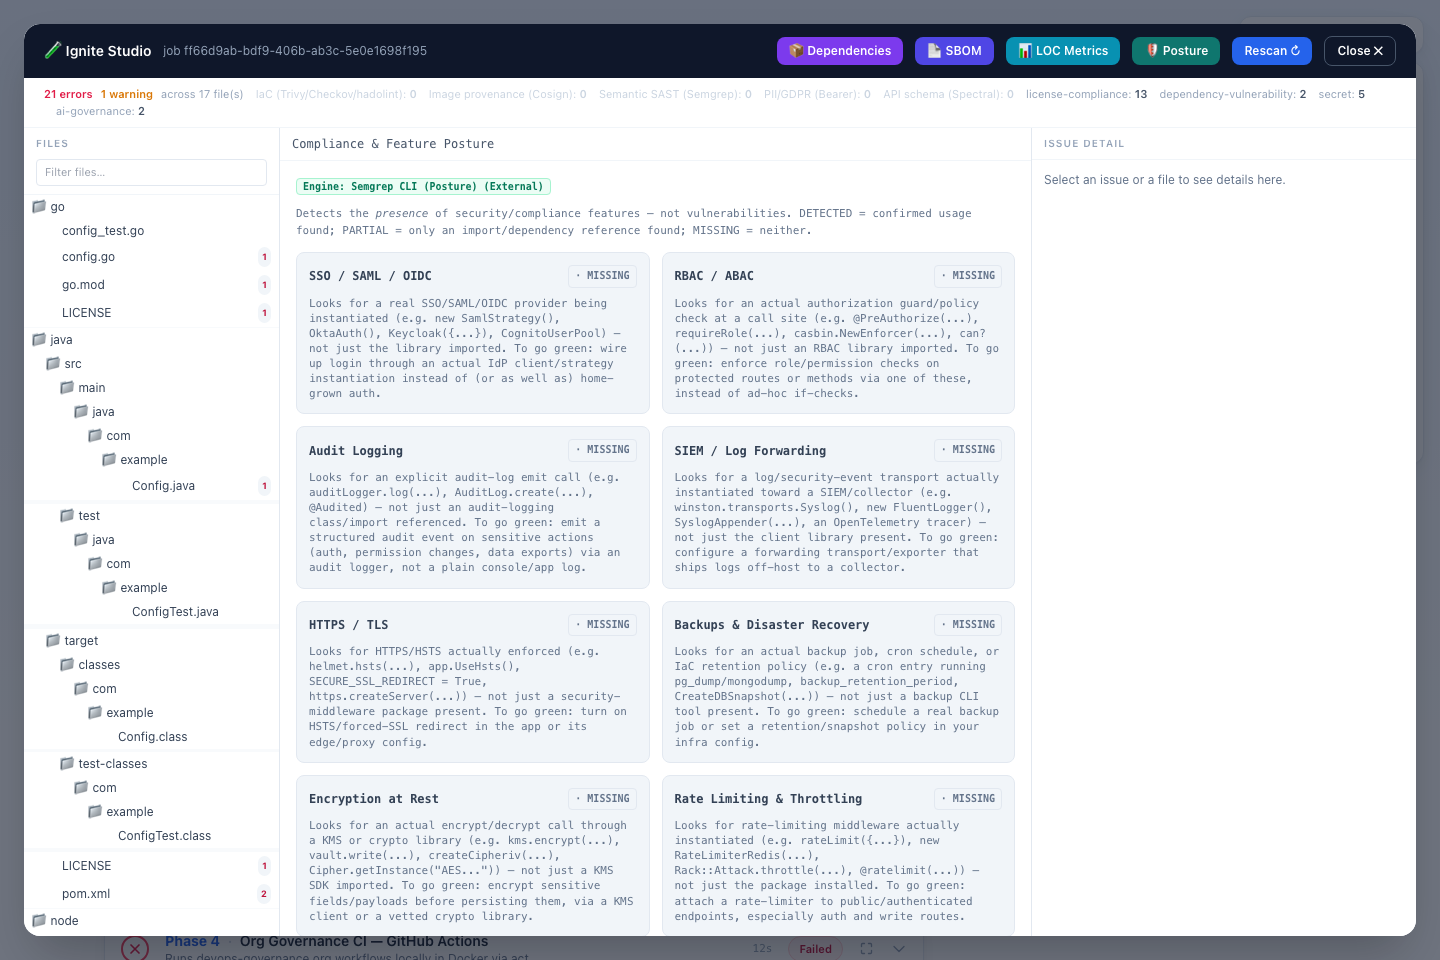
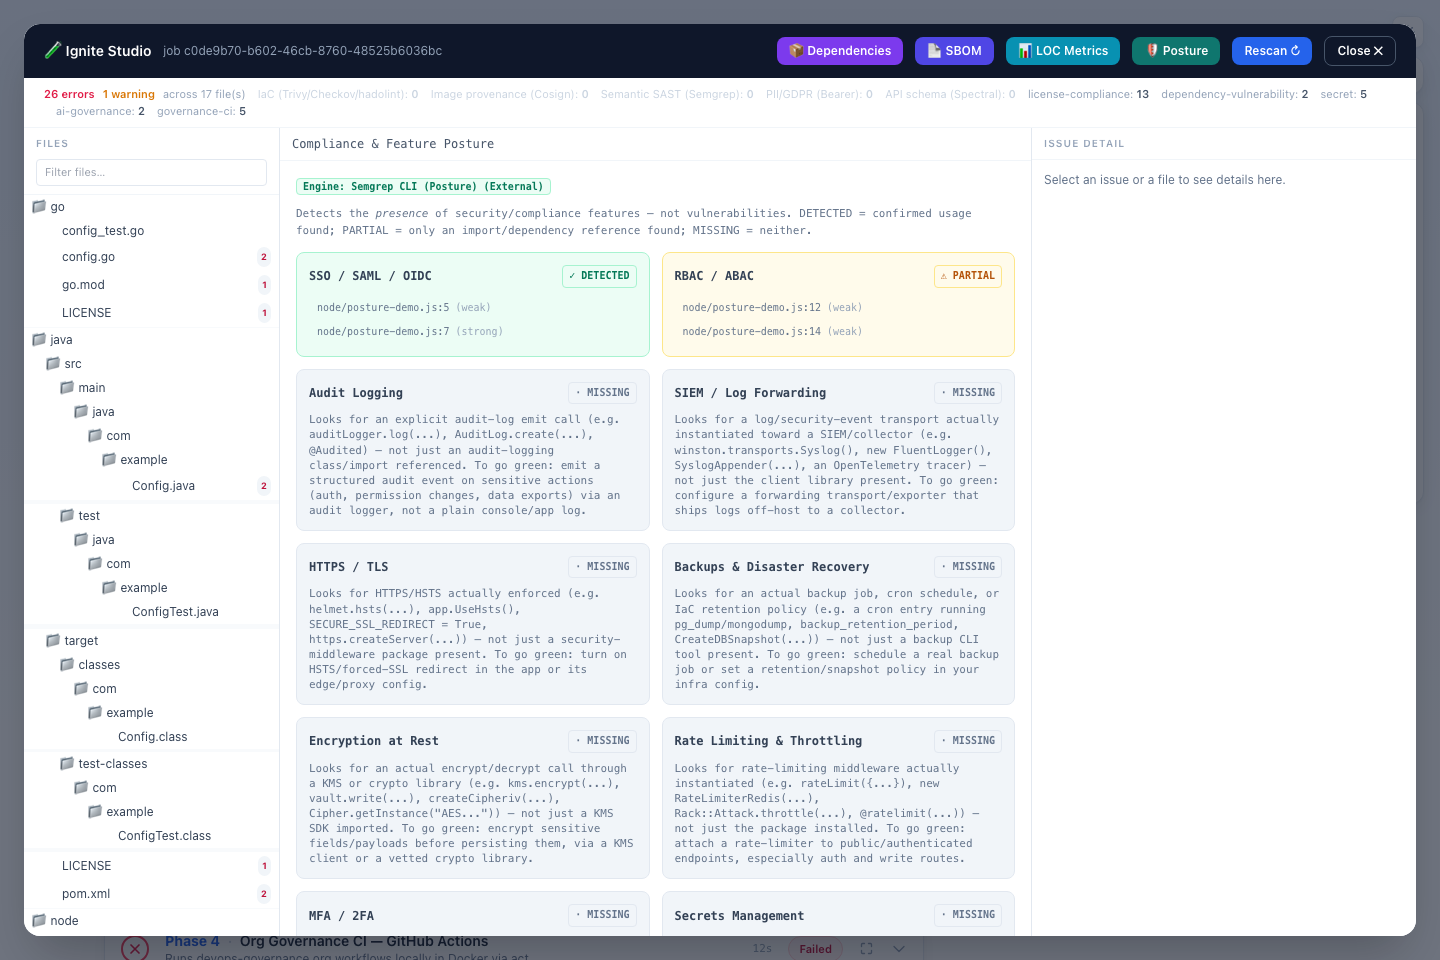
Fix Studio's file-list bug, give Studio its own dark-mode contrast, add a help button
- public/index.html: Studio's file-list filter relied on issue.phase === 4,
  but collectPhase4Issues/collectLicenseIssues/collectDependencyVulnerabilityIssues
  never set that field themselves - only a couple of call sites patched it
  in afterward. Any issue set that skipped that patch (confirmed: the
  onboard handler) round-tripped through the DB with phase=NULL and
  silently vanished from every "Open in Studio" reopen of a finished run,
  not just the new historical view. Switched the filter to Boolean(i.file)
  instead, which is what Studio's file-driven UI actually needs and
  doesn't depend on phase-tagging discipline going forward.
- server.js: stamped phase:4 on phase4.issues in the onboard handler too
  (the interactive pipeline already did this), matching what
  replacePhase4's rescan-diffing logic expects.
- public/index.html: Studio now gets its own dark-mode contrast instead of
  inheriting the page-wide invert filter wholesale - the header bar and
  colorful action buttons were already deliberately dark, so blanket-
  inverting them produced a washed-out pastel mess. #studioView now
  counter-inverts back to its authored light-mode look (header/buttons
  unaffected), then the specific light panels (banners, summary bar, the
  tree/code/issue-detail row) get pushed to real dark tones on top -
  same contrast shape as light mode, dark tones instead.
- public/index.html: persistent help (?) button next to the theme toggle,
[…]

diff --git a/public/index.html b/public/index.html
@@ -53,6 +53,25 @@
     html[data-theme="dark"] body { background: #fff; filter: invert(1) hue-rotate(180deg); }
     html[data-theme="dark"] .terminal { filter: invert(1) hue-rotate(180deg); }
     #themeToggleBtn svg { transition: transform .2s ease; }
+
+    /* Ignite Studio has its own deliberate light/dark contrast already (a
+       dark navy header with colorful action buttons, over white content
+       panels) — the blanket body invert above flips the *already-dark*
+       header into a washed-out pastel mess, since inverting something
+       that's already dark makes it light. Studio's outer box gets a
+       second invert (cancels the body's = back to its original, authored
+       colors — header stays dark navy, buttons stay saturated), then the
+       specific light panels (banners, summary bar, and the tree/code/
+       issue-detail row) get a *third* invert each, which nets out to a
+       single inversion for exactly those — real dark tones, same contrast
+       shape as light mode, without touching the header. */
+    html[data-theme="dark"] #studioView > div { filter: invert(1) hue-rotate(180deg); }
+    html[data-theme="dark"] #studioError,
+    html[data-theme="dark"] #studioHistoricalBanner,
+    html[data-theme="dark"] #studioSummaryBar,
+    html[data-theme="dark"] #studioBody {
+      filter: invert(1) hue-rotate(180deg);
+    }
   </style>
   <script>
     // Applied before first paint (synchronous, in <head>) so the page never
@@ -83,15 +102,24 @@
 
     <!-- Auth bar + external tools status, stacked in the top-right corner -->
     <div class="fixed top-4 right-4 z-40 flex flex-col items-end gap-2">
-      <button id="themeToggleBtn" type="button" title="Toggle dark mode"
-              class="w-8 h-8 flex items-center justify-center rounded-lg border border-slate-200 bg-white text-slate-500 hover:text-brand-600 hover:bg-slate-50 shadow-card">
-        <svg id="themeToggleIconSun" class="w-4 h-4" fill="none" stroke="currentColor" stroke-width="2" viewBox="0 0 24 24">
-          <path stroke-linecap="round" stroke-linejoin="round" d="M12 3v2.25m6.364.386-1.591 1.591M21 12h-2.25m-.386 6.364-1.591-1.591M12 18.75V21m-4.773-4.227-1.591 1.591M5.25 12H3m4.227-4.773L5.636 5.636M15.75 12a3.75 3.75 0 11-7.5 0 3.75 3.75 0 017.5 0z"/>
-        </svg>
-        <svg id="themeToggleIconMoon" class="hidden w-4 h-4" fill="none" stroke="currentColor" stroke-width="2" viewBox="0 0 24 24">
-          <path stroke-linecap="round" stroke-linejoin="round" d="M21.752 15.002A9.72 9.72 0 0118 15.75c-5.385 0-9.75-4.365-9.75-9.75 0-1.33.266-2.597.748-3.752A9.753 9.753 0 003 11.25C3 16.635 7.365 21 12.75 21a9.753 9.753 0 009.002-5.998z"/>
-        </svg>
-      </button>
+      <div class="flex items-center gap-2">
+        <a id="helpBtn" href="https://nunomcpereira.github.io/ignite/" target="_blank" rel="noopener" title="Help &amp; documentation"
+           class="w-8 h-8 flex items-center justify-center rounded-lg border border-slate-200 bg-white text-slate-500 hover:text-brand-600 hover:bg-slate-50 shadow-card">
+          <svg class="w-4 h-4" fill="none" stroke="currentColor" stroke-width="2" viewBox="0 0 24 24">
+            <path stroke-linecap="round" stroke-linejoin="round" d="M9.879 7.519c1.171-1.025 3.071-1.025 4.242 0 1.172 1.025 1.172 2.687 0 3.712-.203.179-.43.326-.67.442-.745.361-1.45.999-1.45 1.827v.75M21 12a9 9 0 11-18 0 9 9 0 0118 0z"/>
+            <path stroke-linecap="round" stroke-linejoin="round" d="M12 17.25h.007v.008H12v-.008z"/>
+          </svg>
+        </a>
+        <button id="themeToggleBtn" type="button" title="Toggle dark mode"
+                class="w-8 h-8 flex items-center justify-center rounded-lg border border-slate-200 bg-white text-slate-500 hover:text-brand-600 hover:bg-slate-50 shadow-card">
+          <svg id="themeToggleIconSun" class="w-4 h-4" fill="none" stroke="currentColor" stroke-width="2" viewBox="0 0 24 24">
+            <path stroke-linecap="round" stroke-linejoin="round" d="M12 3v2.25m6.364.386-1.591 1.591M21 12h-2.25m-.386 6.364-1.591-1.591M12 18.75V21m-4.773-4.227-1.591 1.591M5.25 12H3m4.227-4.773L5.636 5.636M15.75 12a3.75 3.75 0 11-7.5 0 3.75 3.75 0 017.5 0z"/>
+          </svg>
+          <svg id="themeToggleIconMoon" class="hidden w-4 h-4" fill="none" stroke="currentColor" stroke-width="2" viewBox="0 0 24 24">
+            <path stroke-linecap="round" stroke-linejoin="round" d="M21.752 15.002A9.72 9.72 0 0118 15.75c-5.385 0-9.75-4.365-9.75-9.75 0-1.33.266-2.597.748-3.752A9.753 9.753 0 003 11.25C3 16.635 7.365 21 12.75 21a9.753 9.753 0 009.002-5.998z"/>
+          </svg>
+        </button>
+      </div>
       <div id="authBar" class="text-sm"></div>
       <div id="toolsBar" class="text-sm"></div>
     </div>
@@ -350,7 +378,7 @@
         marked <span class="font-mono">⋯ N lines not shown ⋯</span>. Re-run the pipeline to browse the full project again.
       </p>
       <div id="studioSummaryBar" class="hidden text-[11px] text-slate-600 bg-white border-b border-slate-100 px-5 py-2"></div>
-      <div class="flex-1 min-h-0 flex overflow-hidden">
+      <div id="studioBody" class="flex-1 min-h-0 flex overflow-hidden">
         <!-- File tree -->
         <div class="w-64 shrink-0 border-r border-slate-200 bg-white overflow-y-auto flex flex-col">
           <div class="sticky top-0 bg-white border-b border-slate-100">
@@ -1359,11 +1387,6 @@
       'governance-ci':      { label: 'Org governance CI (act)', area: 'Process & Governance', always: false },
       'input-validation':   { label: 'Input & metadata validation', area: 'Process & Governance', always: false },
     };
-    // The two phase-3 categories (license-compliance, dependency-vulnerability)
-    // that are still file-addressable like phase-4 findings, so they belong on
-    // Studio's tree badges/file views too — everything else in phase 3
-    // (structure-audit, gxp-documents) is process-level, not per-file.
-    const STUDIO_PHASE3_CATEGORIES = new Set(['license-compliance', 'dependency-vulnerability']);
     const CHECK_AREA_ORDER = ['Security', 'Quality', 'Dependencies', 'API & Schema', 'Process & Governance', 'Other'];
 
     function buildChecksReportByArea(issues) {
@@ -1770,9 +1793,15 @@
 
       try {
         const issuesRes = await (await fetch(`/api/pipeline/${jobId}/issues`)).json();
-        // Phase-4 findings plus the file-addressable phase-3 categories —
-        // both belong on the tree badges and file views.
-        studioState.issues = (issuesRes.issues || []).filter((i) => i.phase === 4 || STUDIO_PHASE3_CATEGORIES.has(i.category));
+        // File-addressable findings only — Studio's tree/badges/code view are
+        // entirely file-driven, so "has a file" is what actually matters
+        // here, not which phase produced it. (Filtering on `phase` instead
+        // used to silently drop everything once persisted: collectPhase4Issues/
+        // collectLicenseIssues/collectDependencyVulnerabilityIssues never set
+        // a `phase` field themselves — only a couple of call sites patched
+        // it in afterward, so any issue set that skipped that patch round-
+        // tripped through the DB with phase=NULL and vanished from Studio.)
+        studioState.issues = (issuesRes.issues || []).filter((i) => Boolean(i.file));
       } catch { studioState.issues = []; }
       renderStudioSummaryBar();
 
@@ -1822,7 +1851,7 @@
       try {
         const res = await fetch(`/api/projects/${projectId}/issues`);
         const data = await res.json();
-        studioState.issues = (data.issues || []).filter((i) => i.phase === 4 || STUDIO_PHASE3_CATEGORIES.has(i.category));
+        studioState.issues = (data.issues || []).filter((i) => Boolean(i.file));
       } catch { studioState.issues = []; }
       renderStudioSummaryBar();
 
@@ -2542,7 +2571,7 @@
         const res = await fetch(`/api/pipeline/${studioState.jobId}/studio/rescan`, { method: 'POST' });
         const data = await res.json();
         if (!res.ok) throw new Error(data.error || 'Rescan failed.');
-        studioState.issues = (data.issues || []).filter((i) => i.phase === 4 || STUDIO_PHASE3_CATEGORIES.has(i.category));
+        studioState.issues = (data.issues || []).filter((i) => Boolean(i.file));
         renderStudioTree(await studioCurrentFiles());
         if (studioState.currentPath) studioMarkActiveFile(studioState.currentPath);
         const resolvedNote = data.resolvedIds?.length ? `${data.resolvedIds.length} issue(s) resolved.` : 'No issues resolved by this change.';

diff --git a/server.js b/server.js
@@ -6349,7 +6349,10 @@ app.post('/api/pipeline/onboard', async (req, res) => {
       log3('Skipped — disabled by config (phases: [{ id: 4, enabled: false }]).');
     } else {
       const phase4 = await runPhase4Checks(projectRoot, log3, { org, repo, projectId, store });
-      issues = [...phase4.issues, ...licenseIssues];
+      // Studio's rescan-diffing (replacePhase4) keys off issue.phase === 4 to
+      // know which persisted rows to replace — collectPhase4Issues doesn't
+      // set it itself, so it has to be stamped here before persisting.
+      issues = [...phase4.issues.map((i) => ({ ...i, phase: 4 })), ...licenseIssues];
     }
     // Persisted as soon as they're known — including the per-file/line
     // detail (file, line, summary, snippet) collectPhase4Issues carries —

diff --git a/README.md b/README.md
@@ -194,7 +194,8 @@ team *why* a given gate is blocking their push.
 | Committed raw `.env`/`.env.*` files leaking live credentials into repo history | Denies any `.env`/`.env.*` file anywhere in the tree (unless already `.gitignore`d) before anything else runs | Built-in structure audit | 3 | N/A - built-in, no external tool involved |
 | Hardcoded secrets in source (API keys, passwords, tokens, private keys) | Regex scan over every text file; gitleaks runs as a supplemental pass over the same tree when enabled, merged and deduped against the regex hits | Built-in regex scan + [gitleaks](#gitleaks) (optional) | 4 | The built-in regex scan always runs regardless; only gitleaks's supplemental pass is skipped |
 | Runaway/uncontrolled AI agent loops - unbounded LangChain/LangGraph `.invoke()`/`.stream()` calls (cost blowup, infinite loops, larger prompt-injection blast radius) | Flags any `.invoke(`/`.stream(`/`.ainvoke(`/`.astream(` call missing `recursion_limit` | Built-in AI-governance regex check | 4 | N/A - built-in, no external tool involved |
-| Injection (SQL/command/template), path traversal, SSRF, insecure deserialization, XSS, broken auth/authz, weak crypto, unsafe `eval`/`exec`, prototype pollution, insecure temp files, missing input validation | Local LLM deep-scan reviews real source for these patterns; Semgrep's `p/security-audit` ruleset catches the same classes via static pattern matching, independently | LLM deep-scan (security pass) + [Semgrep](https://semgrep.dev) | 4 | LLM pass: skipped with a warning if the endpoint is unreachable. Semgrep: skipped entirely if missing - no built-in fallback for a rule engine, but the LLM pass still covers this ground independently |
+| **SQL injection** - unparameterized/string-concatenated queries, tainted input reaching a raw query or ORM `.raw()`/`.exec()` call | Two independent passes, not one: (1) Semgrep's `p/security-audit` ruleset ships dedicated SQL-injection rules per language/framework (Node `pg`/`mysql`/Sequelize, Python `psycopg2`/Django ORM `.raw()`, Java JDBC/JPA, PHP PDO, Ruby ActiveRecord, ...) that flag a query built by concatenating/interpolating unsanitized input instead of using bound parameters; (2) the local LLM deep-scan is explicitly prompted to read the actual data flow and flag SQL injection it finds, including patterns a fixed rule set doesn't have a rule for yet | Semgrep + LLM deep-scan (security pass) | 4 | Semgrep: skipped entirely if missing - no built-in fallback for a rule engine, but the LLM pass still covers this ground independently. LLM: skipped with a warning if the endpoint is unreachable - Semgrep's rules still catch it on their own |
+| Command injection, template injection, path traversal, SSRF, insecure deserialization, XSS, broken auth/authz, weak crypto, unsafe `eval`/`exec`, prototype pollution, insecure temp files, missing input validation | Same two independent passes as SQL injection above, same reasoning - Local LLM deep-scan reviews real source for these patterns; Semgrep's `p/security-audit` ruleset catches the same classes via static pattern matching, independently | LLM deep-scan (security pass) + [Semgrep](https://semgrep.dev) | 4 | LLM pass: skipped with a warning if the endpoint is unreachable. Semgrep: skipped entirely if missing - no built-in fallback for a rule engine, but the LLM pass still covers this ground independently |
 | Dependency with a **known**, already-disclosed CVE/GHSA advisory | Resolves each manifest dependency's real version and cross-references deps.dev's aggregated OSV/GHSA data | Built-in scanner + [deps.dev](https://deps.dev) API | 3 | Not tied to a locally-installed tool - that specific lookup just fails soft (marked unresolved, not blocking) if deps.dev is unreachable |
 | Dependency that is **malicious but has no advisory yet** - install-script exfiltration, obfuscated/encoded payloads, silent network calls, typosquatting (the gap a CVE database can't cover, since a freshly-published malicious package has nothing to look up) | Downloads and statically inspects each npm/PyPI dependency's actual package contents against Semgrep-based supply-chain-attack heuristics | [GuardDog](https://github.com/DataDog/guarddog) (on by default - heavier, per-package registry fetch) | 4 | Check skipped entirely - no fallback (this heuristic can't be meaningfully approximated) |
 | Commercial/proprietary/unrecognized dependency licenses creating unreviewed IP/legal exposure; the project's own license terms | Resolves real per-dependency licenses (ORT, or the built-in manifest parser + deps.dev fallback) and classifies green/amber/red; scans every `LICENSE`/`LICENCE` file for commercial/proprietary language | [ORT](https://oss-review-toolkit.org/ort/) / [licensee](https://github.com/licensee/licensee) / deps.dev | 3 | Falls back to the built-in manifest parser + deps.dev lookup if ORT is missing; the project's-own-license row is simply omitted if licensee is missing |

diff --git a/docs/index.md b/docs/index.md
@@ -149,7 +149,8 @@ installed* (Ignite still runs, and falls back where it can, if it isn't).
 | Committed raw `.env`/`.env.*` files leaking live credentials into repo history | Denies any `.env`/`.env.*` file anywhere in the tree (unless already `.gitignore`d) before anything else runs | Built-in structure audit | 3 | N/A - built-in, no external tool involved |
 | Hardcoded secrets in source (API keys, passwords, tokens, private keys) | Regex scan over every text file; gitleaks runs as a supplemental pass over the same tree when enabled, merged and deduped against the regex hits | Built-in regex scan + gitleaks (optional) | 4 | The built-in regex scan always runs regardless; only gitleaks's supplemental pass is skipped |
 | Runaway/uncontrolled AI agent loops - unbounded LangChain/LangGraph `.invoke()`/`.stream()` calls (cost blowup, infinite loops, larger prompt-injection blast radius) | Flags any `.invoke(`/`.stream(`/`.ainvoke(`/`.astream(` call missing `recursion_limit` | Built-in AI-governance regex check | 4 | N/A - built-in, no external tool involved |
-| Injection (SQL/command/template), path traversal, SSRF, insecure deserialization, XSS, broken auth/authz, weak crypto, unsafe `eval`/`exec`, prototype pollution, insecure temp files, missing input validation | Local LLM deep-scan reviews real source for these patterns; Semgrep's `p/security-audit` ruleset catches the same classes via static pattern matching, independently | LLM deep-scan (security pass) + Semgrep | 4 | LLM pass: skipped with a warning if the endpoint is unreachable. Semgrep: skipped entirely if missing - no built-in fallback for a rule engine, but the LLM pass still covers this ground independently |
+| **SQL injection** - unparameterized/string-concatenated queries, tainted input reaching a raw query or ORM `.raw()`/`.exec()` call | Two independent passes: (1) Semgrep's `p/security-audit` ruleset ships dedicated SQL-injection rules per language/framework (Node `pg`/`mysql`/Sequelize, Python `psycopg2`/Django ORM `.raw()`, Java JDBC/JPA, PHP PDO, Ruby ActiveRecord, ...) flagging a query built by concatenating/interpolating unsanitized input instead of bound parameters; (2) the local LLM deep-scan is explicitly prompted to read the data flow and flag SQL injection it finds, including patterns with no rule yet | Semgrep + LLM deep-scan (security pass) | 4 | Semgrep: skipped entirely if missing - no built-in fallback, but the LLM pass still covers this independently. LLM: skipped with a warning if the endpoint is unreachable - Semgrep's rules still catch it on their own |
+| Command injection, template injection, path traversal, SSRF, insecure deserialization, XSS, broken auth/authz, weak crypto, unsafe `eval`/`exec`, prototype pollution, insecure temp files, missing input validation | Same two independent passes as SQL injection above, same reasoning | LLM deep-scan (security pass) + Semgrep | 4 | LLM pass: skipped with a warning if the endpoint is unreachable. Semgrep: skipped entirely if missing - no built-in fallback for a rule engine, but the LLM pass still covers this ground independently |
 | Dependency with a **known**, already-disclosed CVE/GHSA advisory | Resolves each manifest dependency's real version and cross-references deps.dev's aggregated OSV/GHSA data | Built-in scanner + deps.dev API | 3 | Not tied to a locally-installed tool - that specific lookup just fails soft (marked unresolved, not blocking) if deps.dev is unreachable |
 | Dependency that is **malicious but has no advisory yet** - install-script exfiltration, obfuscated/encoded payloads, silent network calls, typosquatting | Downloads and statically inspects each npm/PyPI dependency's actual package contents against Semgrep-based supply-chain-attack heuristics | GuardDog (on by default if installed) | 4 | Check skipped entirely - no fallback (this heuristic can't be meaningfully approximated) |
 | Commercial/proprietary/unrecognized dependency licenses creating unreviewed IP/legal exposure; the project's own license terms | Resolves real per-dependency licenses (ORT, or the built-in manifest parser + deps.dev fallback) and classifies green/amber/red; scans every `LICENSE`/`LICENCE` file for commercial/proprietary language | ORT / licensee / deps.dev | 3 | Falls back to the built-in manifest parser + deps.dev lookup if ORT is missing; the project's-own-license row is simply omitted if licensee is missing |
